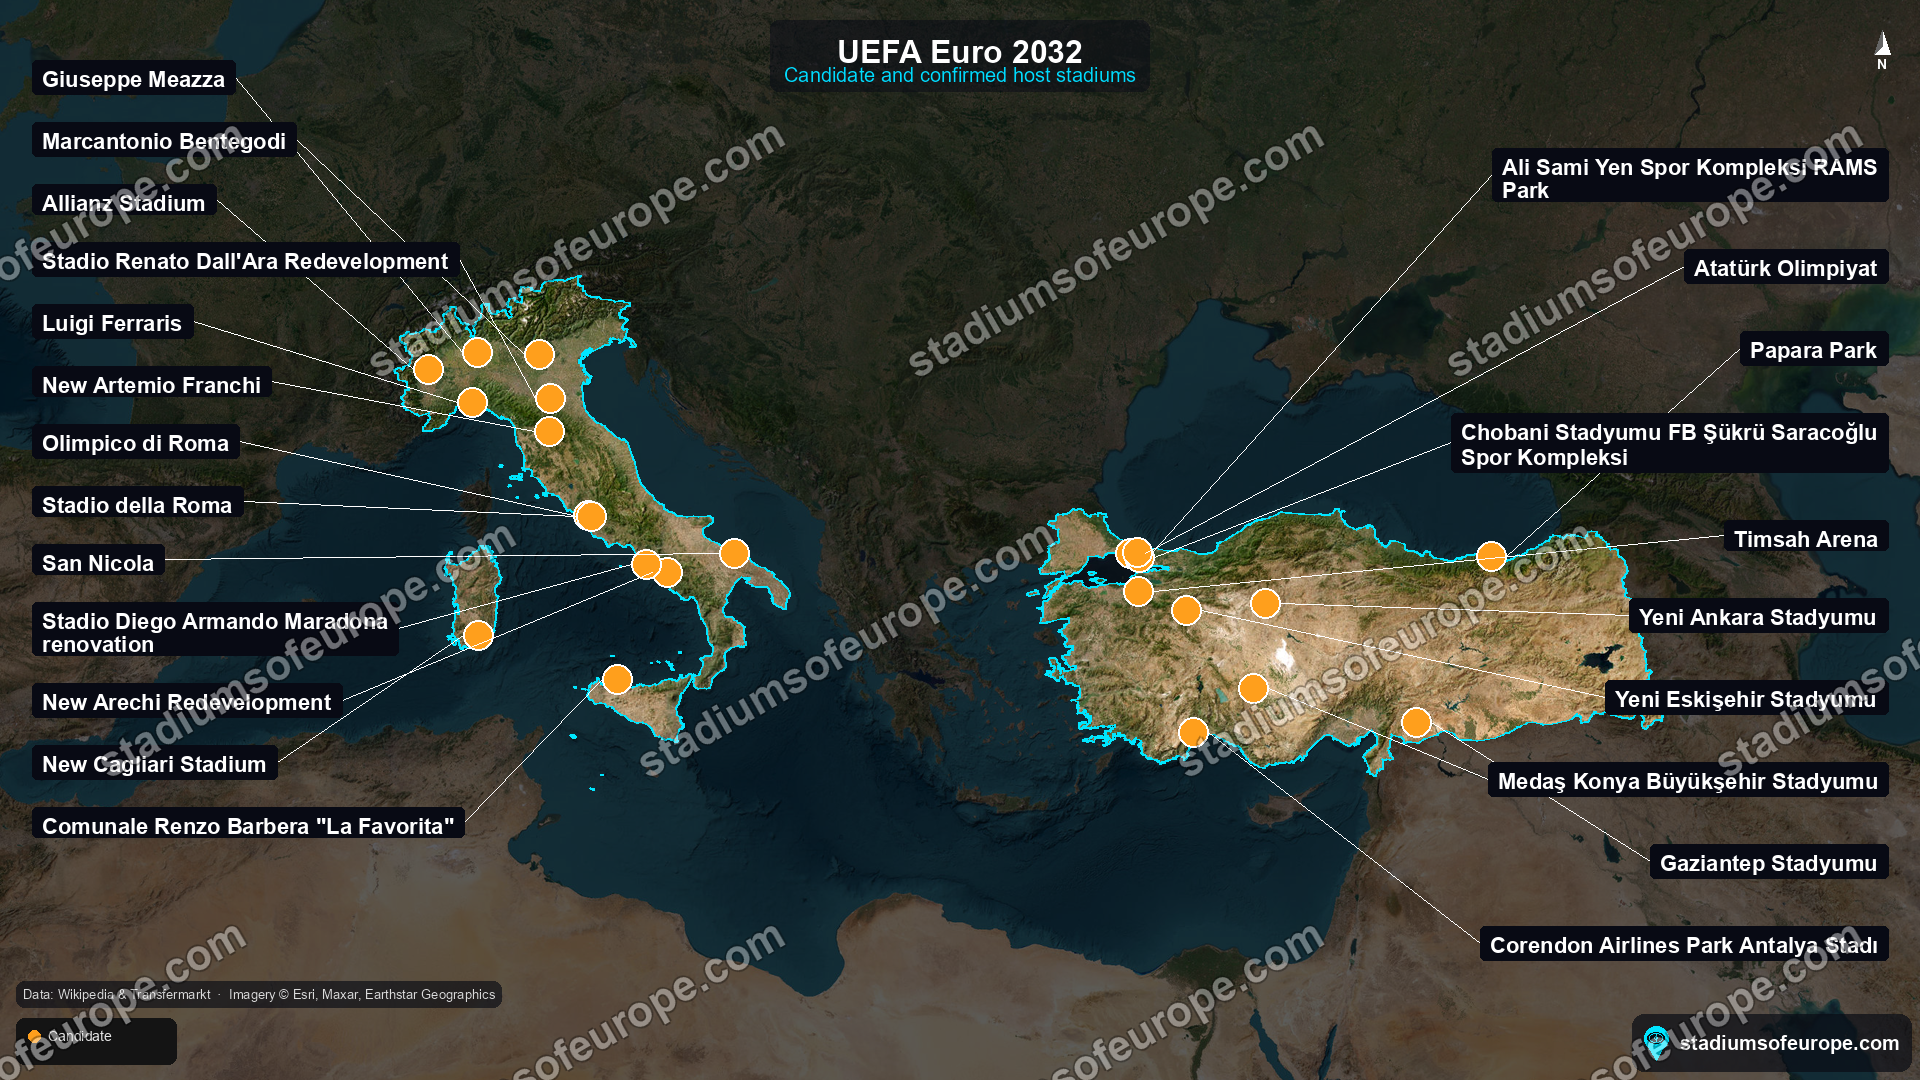
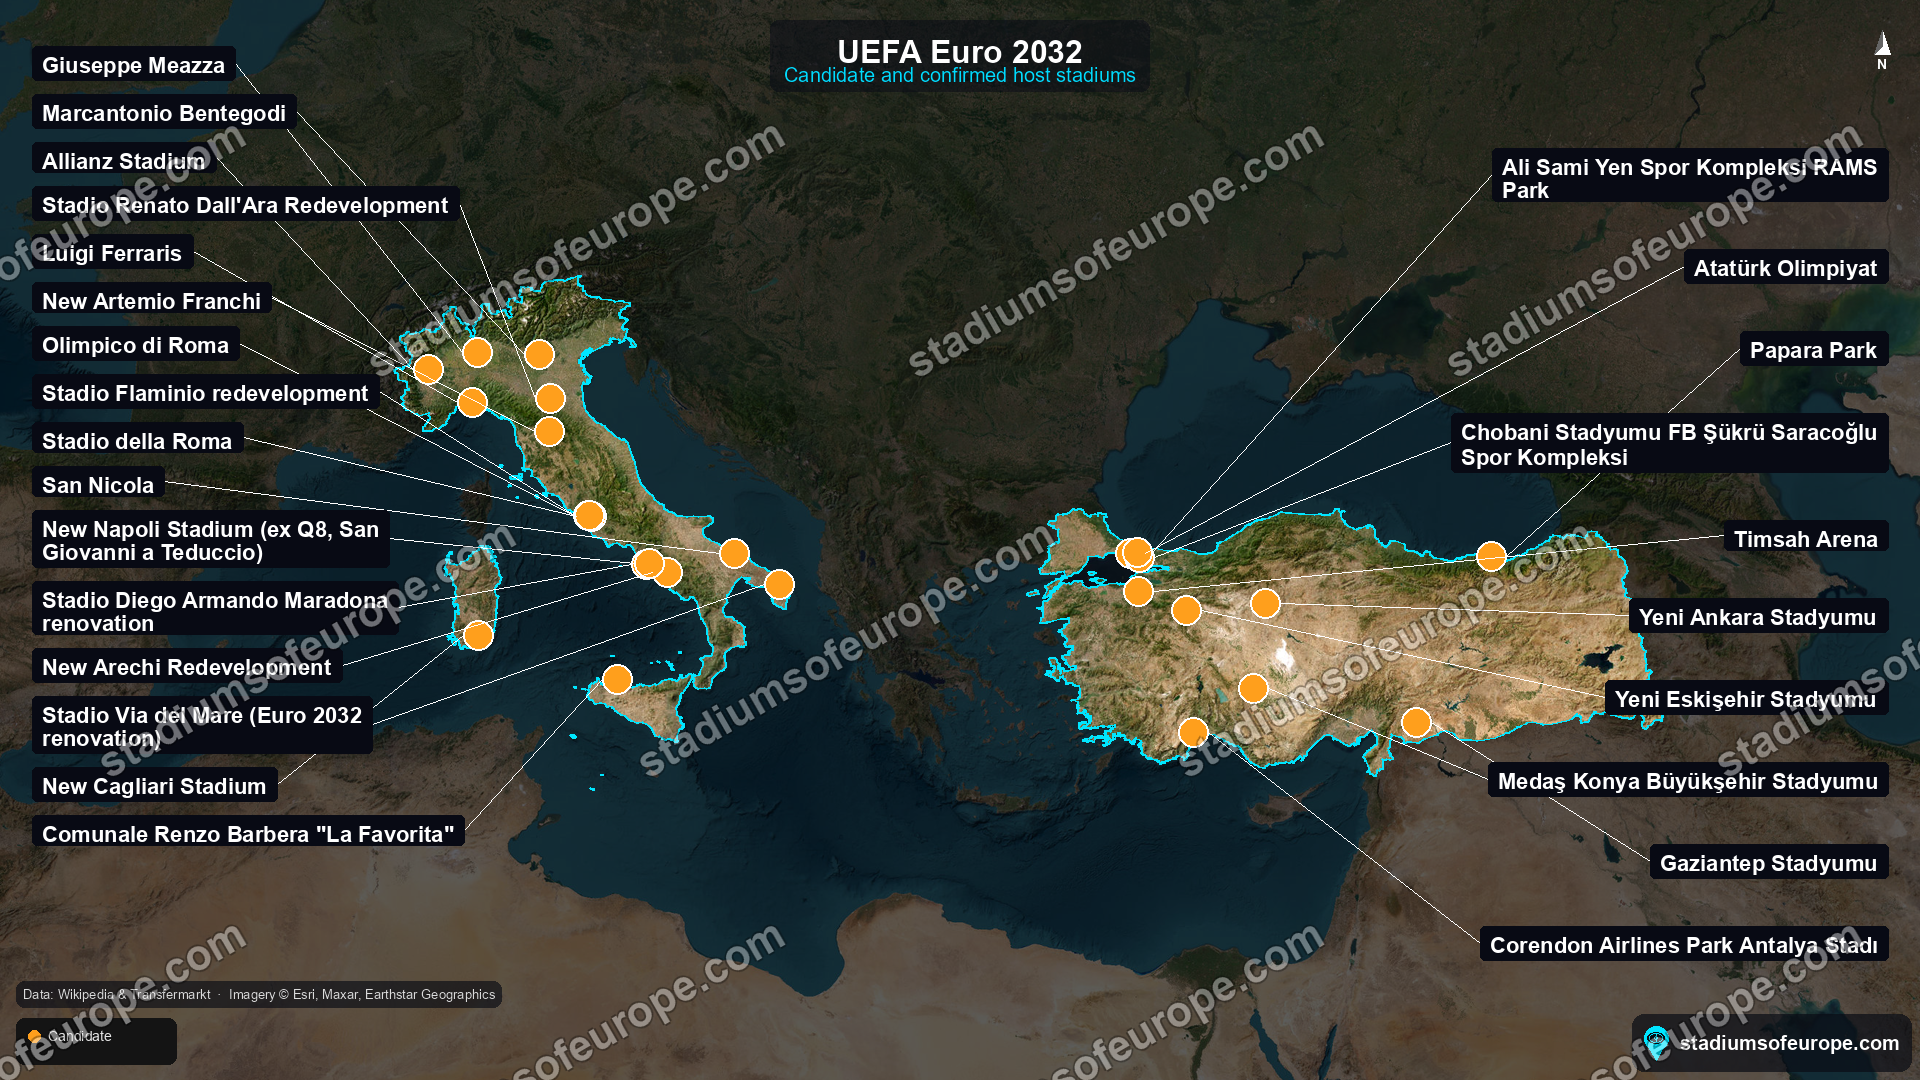
Euro 2032: complete the Italian bid at the real 13 cities / 16 stadiums
FIGC confirmed on 1 Aug 2026 it received 13 city dossiers covering 16 stadiums.
We had 13 projects and two errors:

- Lecce (Via del Mare) is IN the official 13 - it was wrongly set DISCARDED in
  the 31 July update. Restored to CANDIDATE.
- Rome's THIRD bid was missing: Stadio Flaminio. Nervi's 1959 municipally-owned
  ground, derelict since 2011; Lazio's Feb-2026 plan (~EUR 480m) restores it and
  lifts capacity 24,973 -> 50,750 by 2031 expressly to bid for Euro 2032.
- Naples' SECOND bid was missing: De Laurentiis' privately funded new build on
  the 38-hectare former Q8 (Kuwait Petroleum) refinery site at San Giovanni a
  Teduccio, reported at 60-70k seats and over EUR 1bn, remediation finishing
  late 2027/early 2028. Coordinates taken from OSM way 29496715 (the refinery
  footprint); the exact stadium position within the site is not yet public and
  that caveat is recorded in the notes.

Breakdown now matches the official list exactly: 13 cities, 16 stadiums, with
Rome on three and Naples on two. Editorial and FAQ rewritten accordingly
(including why 16 stadiums come from 13 cities). Map regenerated.

Changed region(s): [[0.0, 0.0306, 0.25, 0.7944], [0.375, 0.5194, 0.4375, 0.55], [0.3125, 0.4889, 0.3438, 0.55]]

diff --git a/italianstadia/italiastadiaapp/views.py b/italianstadia/italiastadiaapp/views.py
@@ -1116,17 +1116,23 @@ _TOURNAMENT_EDITORIAL = {
             "Italy risks being removed as co-host if its infrastructure plans do not progress.",
             "The Italian race entered its decisive phase on 31 July 2026, the FIGC's deadline "
             "for candidate cities to deliver their dossiers (approved projects, financial "
-            "guarantees and proof of UEFA compliance). Twelve cities answered the call: Turin "
-            "(Allianz Stadium), Milan (the planned new San Siro), Rome, with two dossiers, "
-            "the Stadio Olimpico and the new Stadio della Roma, Florence (the rebuilt Artemio "
-            "Franchi), Naples (Stadio Diego Armando Maradona), Genoa (Luigi Ferraris), Verona "
-            "(Marcantonio Bentegodi), Bologna (Renato Dall'Ara), Bari (San Nicola), Palermo "
-            "(Renzo Barbera), Salerno (Arechi) and Cagliari (a planned new stadium). Lecce's "
-            "Via del Mare, an earlier candidate, did not submit a dossier. The FIGC will "
-            "shortlist five stadiums, plus reserves, by mid-September, and UEFA is expected to "
-            "ratify the final Italian five in the first week of October 2026. Of the twelve, "
-            "only Turin's Allianz Stadium is tournament-ready today; every other candidacy "
-            "depends on a renovation or a new build being delivered on time.",
+            "guarantees and proof of UEFA compliance). On 1 August the federation confirmed "
+            "what it had received: <strong>13 cities putting forward 16 stadiums</strong>. The "
+            "cities are Bari, Bologna, Cagliari, Florence, Genoa, Lecce, Milan, Naples, "
+            "Palermo, Rome, Salerno, Turin and Verona; Udine and Reggio Emilia, both mentioned "
+            "earlier in the process, did not file.",
+            "The count reaches 16 because two cities entered more than one project. Rome "
+            "submitted three: the existing Stadio Olimpico, the new Roma ground planned for "
+            "Pietralata, and the Stadio Flaminio, Pier Luigi Nervi's derelict 1959 arena, "
+            "which Lazio propose to restore and expand to 50,750 seats. Naples submitted two "
+            "competing visions: the city council's publicly funded renovation of the Stadio "
+            "Diego Armando Maradona, and a privately financed new build pushed by club "
+            "president Aurelio De Laurentiis on the former Q8 refinery site at San Giovanni a "
+            "Teduccio in the east of the city.",
+            "The FIGC will shortlist five stadiums, plus reserves, by mid-September, and UEFA "
+            "is expected to ratify the final Italian five in the first week of October 2026. "
+            "Of the sixteen, only Turin's Allianz Stadium is tournament-ready today; every "
+            "other candidacy depends on a renovation or a new build being delivered on time.",
         ],
         "sources": [
             {"label": "La Gazzetta dello Sport, Euro 2032: which stadiums will host the tournament",
@@ -1152,9 +1158,15 @@ _TOURNAMENT_EDITORIAL = {
              "are narrowing longer candidate lists; the final venues are expected to be "
              "ratified by UEFA in early October 2026."),
             ("Which Italian cities are candidates for Euro 2032?",
-             "Twelve cities delivered dossiers to the FIGC by the 31 July 2026 deadline: "
-             "Turin, Milan, Rome (two projects), Florence, Naples, Genoa, Verona, Bologna, "
-             "Bari, Palermo, Salerno and Cagliari. Five will be chosen, with reserves."),
+             "Thirteen cities delivered dossiers to the FIGC by the 31 July 2026 deadline, "
+             "covering 16 stadiums: Bari, Bologna, Cagliari, Florence, Genoa, Lecce, Milan, "
+             "Naples, Palermo, Rome, Salerno, Turin and Verona. Rome entered three projects "
+             "and Naples two. Five will be chosen, with reserves."),
+            ("Why are there 16 stadiums but only 13 candidate cities?",
+             "Rome submitted three dossiers, the Stadio Olimpico, the new Roma stadium at "
+             "Pietralata and a restored Stadio Flaminio, and Naples two, the municipal "
+             "renovation of the Stadio Maradona and a privately funded new stadium on the "
+             "former Q8 refinery site at San Giovanni a Teduccio."),
             ("Which Italian stadium is ready for Euro 2032 today?",
              "Only Turin's Allianz Stadium currently meets UEFA requirements without further "
              "work; all other Italian candidacies rely on renovations or new builds."),
